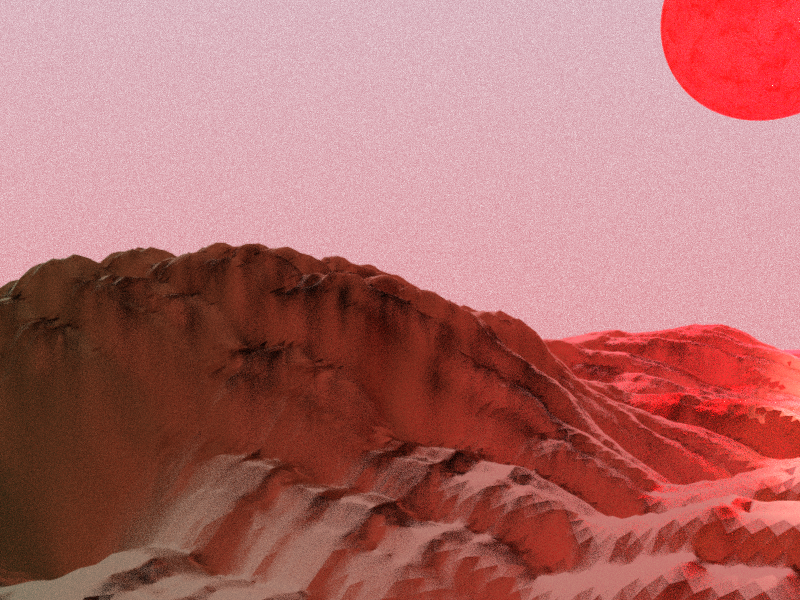
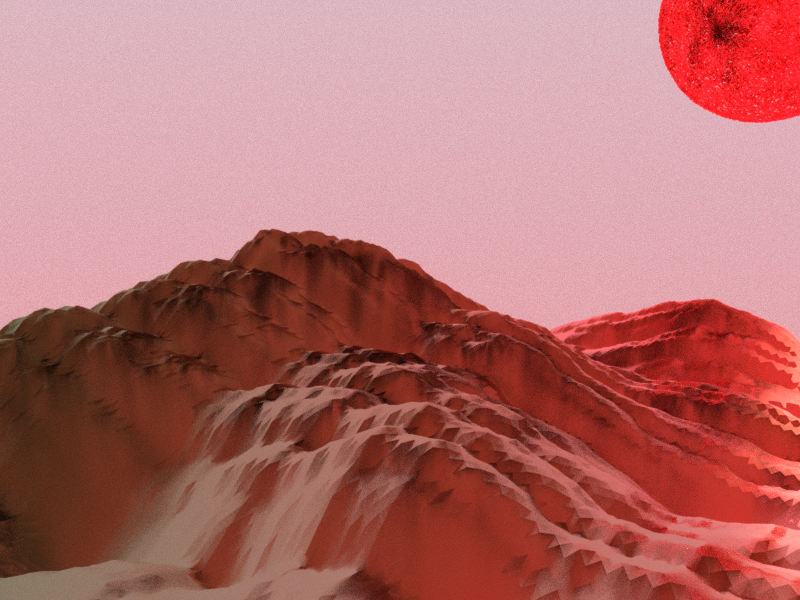
Final:

diff --git a/cse168.html b/cse168.html
@@ -189,8 +189,9 @@
                     <img src="img/cse168/12.png" width="30%">
                     <img src="img/cse168/13.png" width="30%">
                 </div>
-
-
+                <div class="col-lg-8 col-lg-offset-2 text-center">
+                    <p>After some final adjustments with various parameters for overall color, the final image is rendered.</p>
+                </div>
             </div>
         </div>
         <!-- /.container -->
